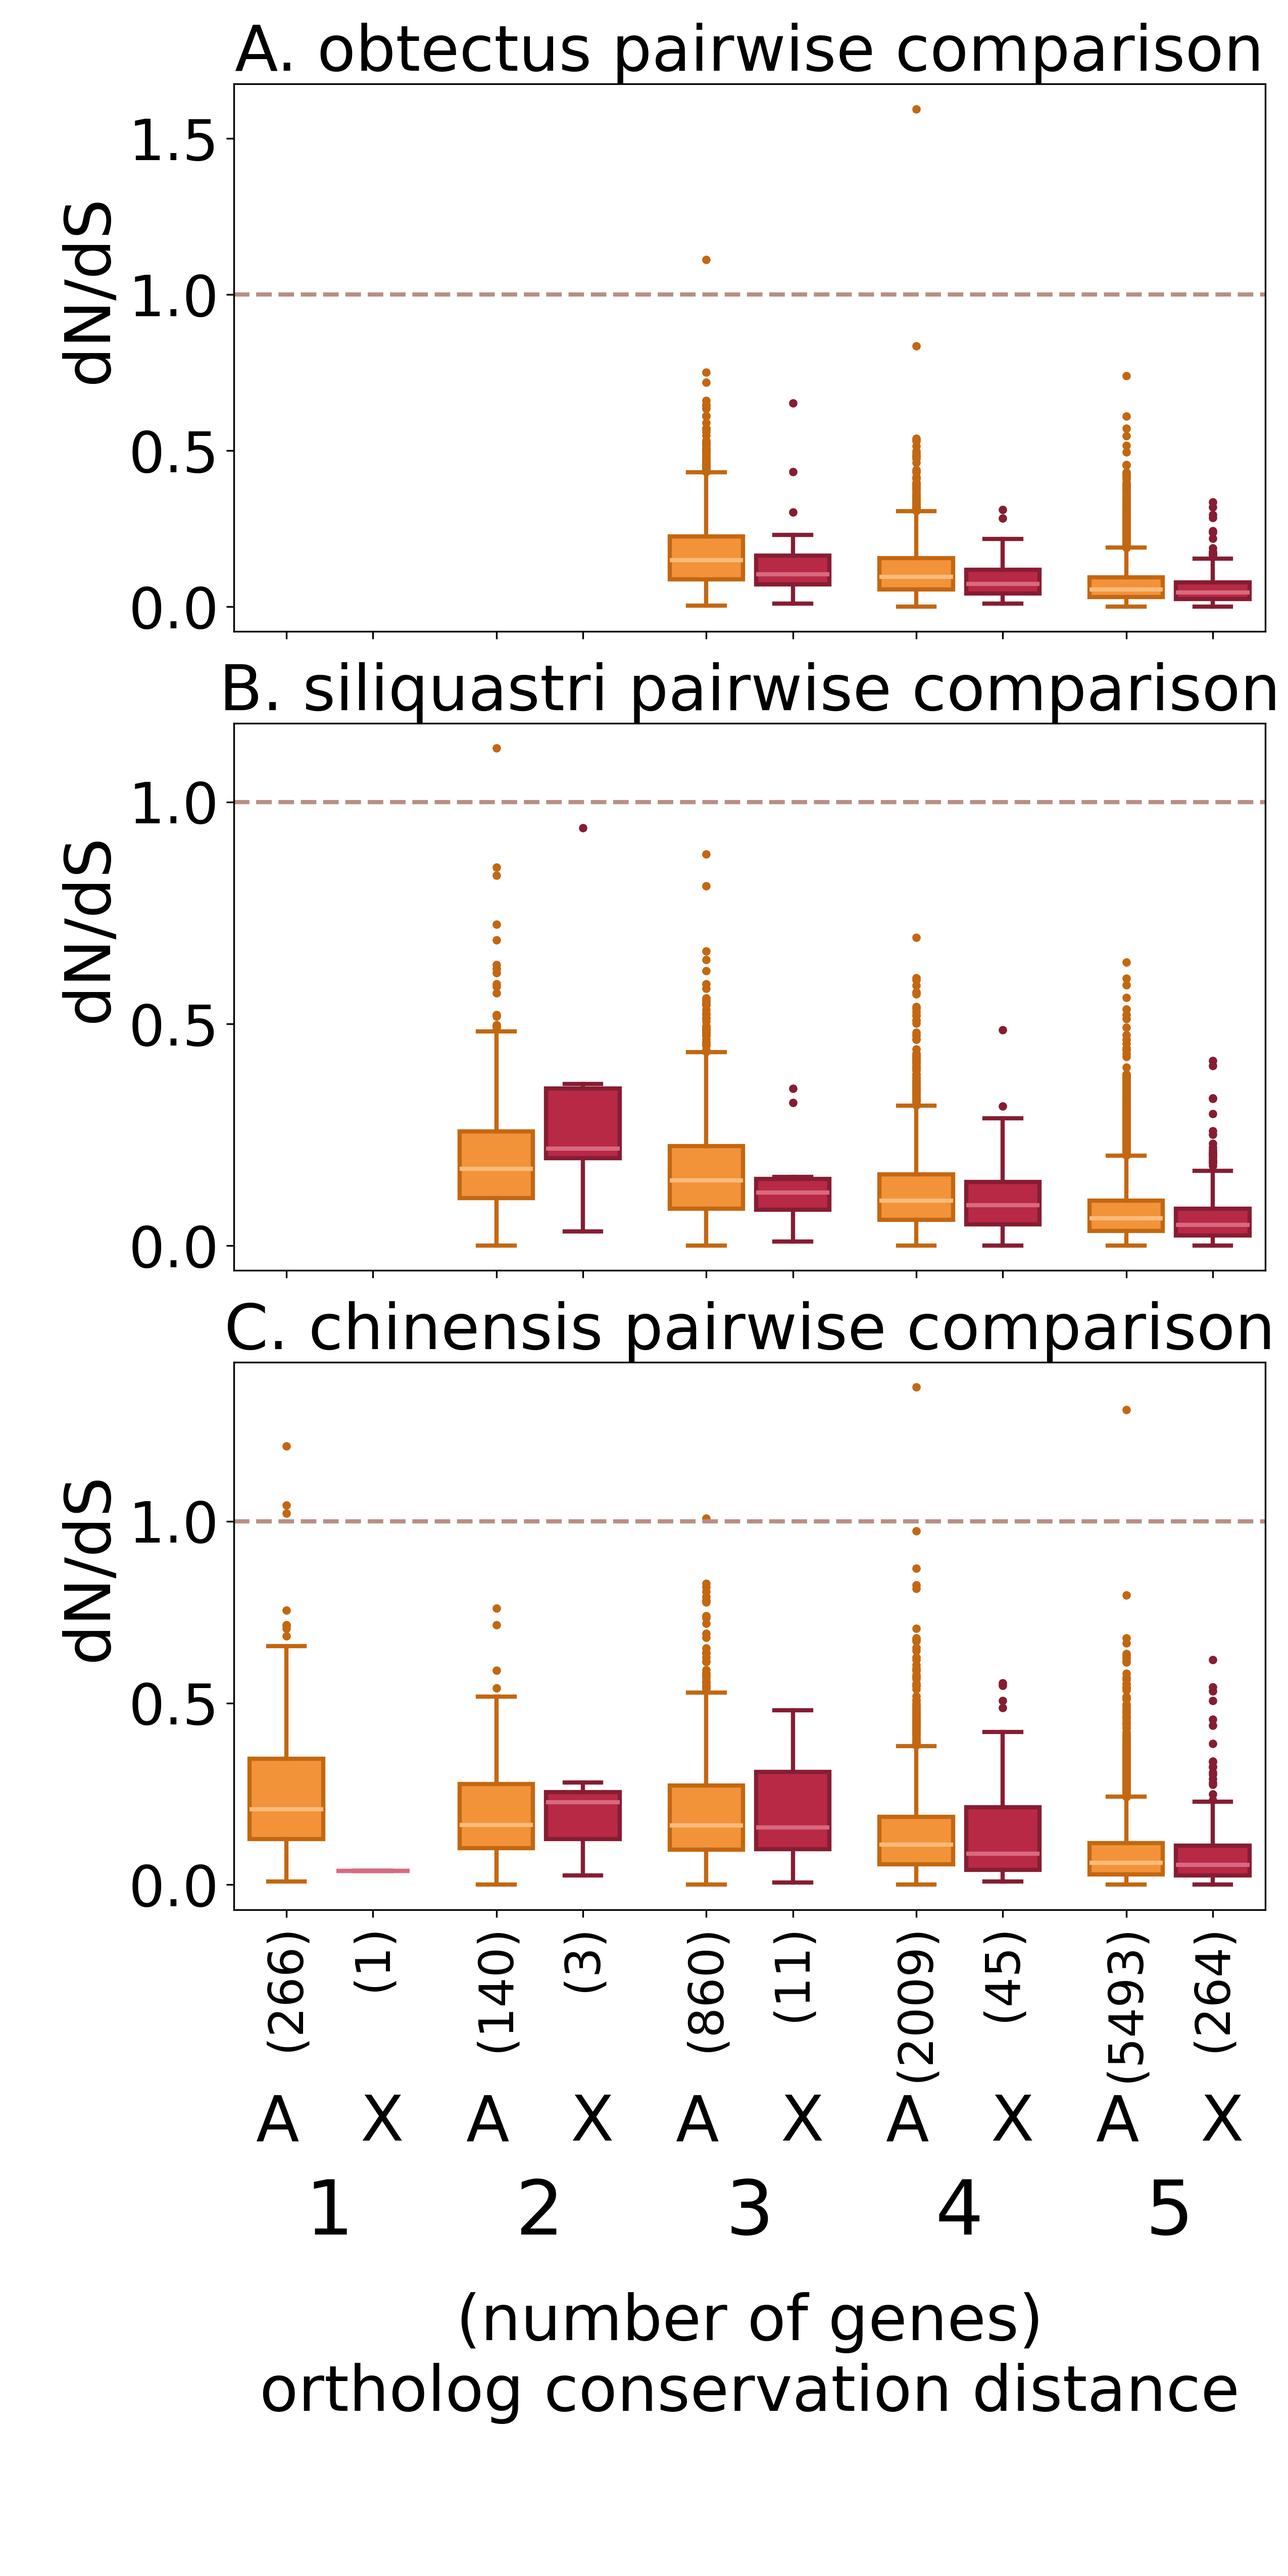
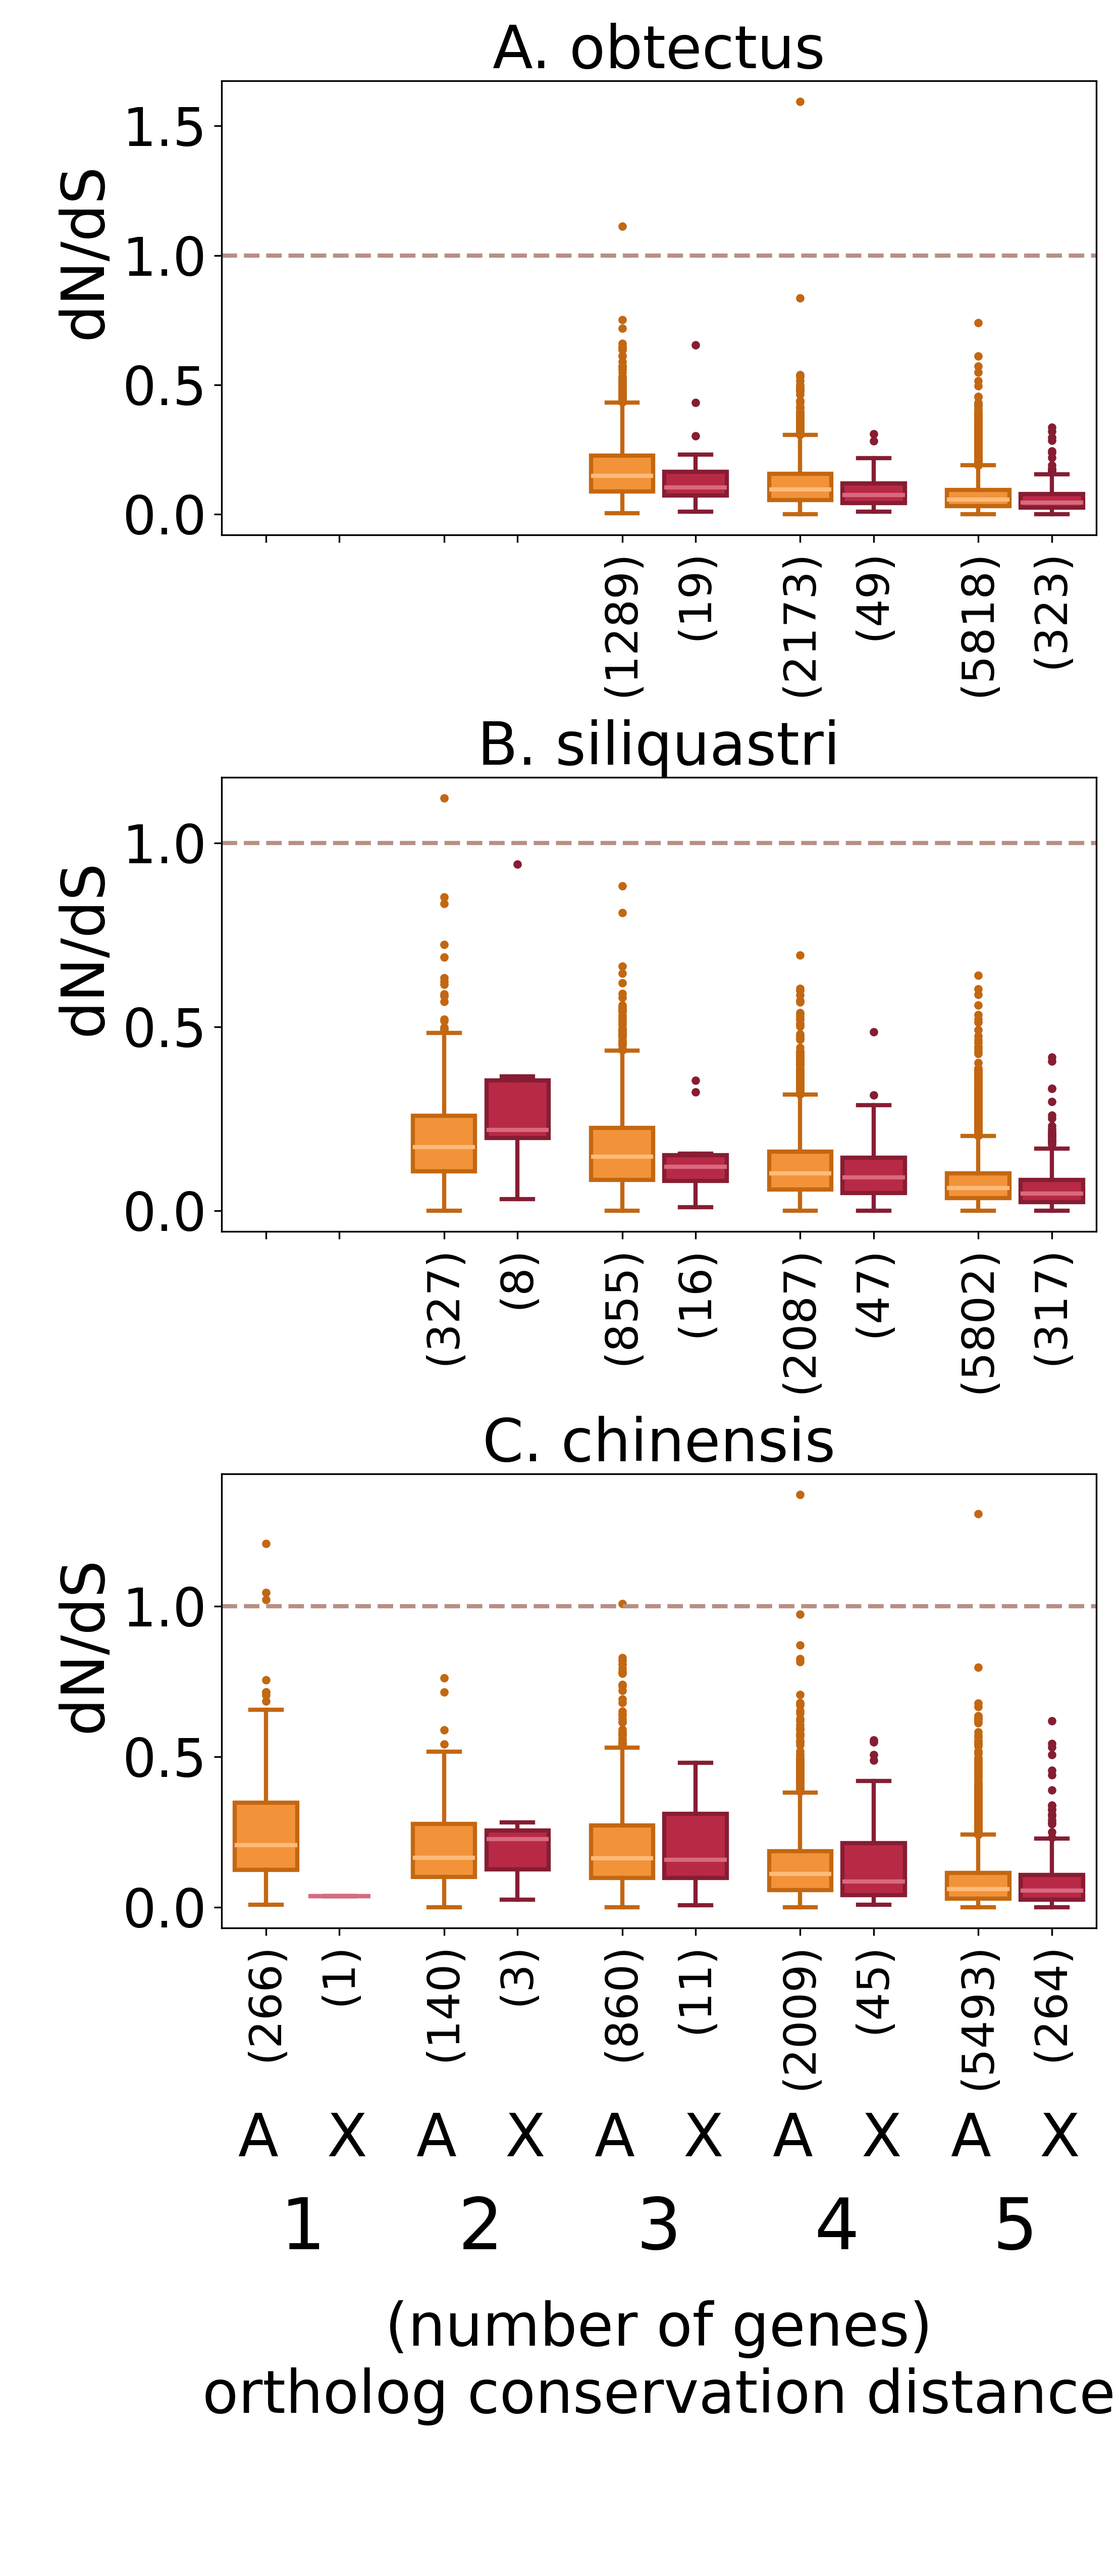
add sample sizes to dNdS x age rank plot

diff --git a/src/plotting/analyze_dNdS_LFC.py b/src/plotting/analyze_dNdS_LFC.py
@@ -258,7 +258,7 @@ def statistical_analysis_pos_sel(full_table_paths_dict, include_sex_bias=False):
                 test = smf.logit(formula=formula_nono, data=filt_df).fit()
                 print(test.summary())
 
-                
+
             elif include_sex_bias == False:
                 
                 ########### test interaction
@@ -354,10 +354,10 @@ def plot_dNdS_rank_conserved(summary_paths_AX_list:dict, outfile = "", maxdNdS =
     if maxdNdS>0:
         y_label = f"dN/dS (max. < {maxdNdS})"
     
-    fs = 30 # font size
+    fs = 28 # font size
 
     # set figure aspect ratio
-    aspect_ratio = 8 / 16
+    aspect_ratio = 10 / 23
     height_pixels = 1700  # Height in pixels
     width_pixels = int(height_pixels * aspect_ratio)  # Width in pixels
 
@@ -371,7 +371,7 @@ def plot_dNdS_rank_conserved(summary_paths_AX_list:dict, outfile = "", maxdNdS =
             AX_lists.extend([lists_A[rank], lists_X[rank]])
         
         # tick_labels = [f"{i // 2 + 1}\n({len(vals)})" for i,vals in enumerate(sex_biased_lists)]
-        tick_labels = [f"({len(vals)})" for i,vals in enumerate(AX_lists)] # plot conservation rank label on separate axis
+        tick_labels = [f"({len(vals)})" if len(vals)>0 else "" for i,vals in enumerate(AX_lists) ] # plot conservation rank label on separate axis
         width = 0.7
         pos_adjust=width*0.125
         tick_pos = [i+pos_adjust if i%2==1 else i-pos_adjust for i in range(1,len(tick_labels)+1)]
@@ -384,7 +384,9 @@ def plot_dNdS_rank_conserved(summary_paths_AX_list:dict, outfile = "", maxdNdS =
             ax[row].set_xticks(ticks = tick_pos, labels = tick_labels, fontsize=fs*tick_fs_factor)#, rotation=45, ha='right') # rotation=45 for diagonal direction
             ax[row].tick_params(axis='x', labelsize=fs*tick_fs_factor, rotation = 90)
         else:
-            ax[row].set_xticks(ticks = tick_pos, labels = ['' for tick in tick_labels], fontsize=fs*tick_fs_factor, rotation=45, ha='right')
+            ax[row].set_xticks(ticks = tick_pos, labels = tick_labels, fontsize=fs*tick_fs_factor)#, rotation=45, ha='right') # rotation=45 for diagonal direction
+            ax[row].tick_params(axis='x', labelsize=fs*tick_fs_factor, rotation = 90)
+            # ax[row].set_xticks(ticks = tick_pos, labels = ['' for tick in tick_labels], fontsize=fs*tick_fs_factor, rotation=45, ha='right')
         ax[row].tick_params(axis='y', labelsize=fs*0.9)
         ax[row].set_title(title, fontsize=fs)
         ax[row].set_ylabel(ylab, fontsize = fs, x=0.0, y=0.625)
@@ -436,16 +438,6 @@ def plot_dNdS_rank_conserved(summary_paths_AX_list:dict, outfile = "", maxdNdS =
             else:
                 flier.set(marker='.', markerfacecolor=colors_dict['X_edge'], markeredgecolor=colors_dict['X_edge'])
 
-    # colors = {
-    #     "fill" : "#246A73", # stormy teal
-    #     "edge" : "#174C54", # dark teal
-    #     "medians" : "#54A6A2", # tropical teal
-    #     # "lines" : "#7D93B5", # lavender grey
-    #     "X_fill" : "#7E3A7E", # grape soda
-    #     "X_edge" : "#672B67", # velvet purple
-    #     "X_medians" : "#C877C8", # orchid mist
-    #     # "X_lines" : "#7D93B5" # lavender grey
-    # }
     colors = {
         "fill" : "#F2933A", # uniform_filtered orange
         "edge" : "#C36711", # darker orange
@@ -459,7 +451,7 @@ def plot_dNdS_rank_conserved(summary_paths_AX_list:dict, outfile = "", maxdNdS =
     for i,partner in enumerate(sorted(partner_species)):
         print(f"/////////////////////// {partner} ///////////////////////")
         partner_title=partner.replace("_", ". ")
-        plot_title = f"{partner_title} pairwise comparison"
+        plot_title = f"{partner_title}"
         if i<2:
             plot_x_axis=False
         else:
@@ -1228,7 +1220,7 @@ if __name__ == "__main__":
 
     ###### site model (pos. sel) stats and some plotting
     ## if plotting not here then in PhD_chapter3/src/plotting/analyze_site_classes.py
-    if True:
+    if False:
         ###################################################
         ## analyze positive selection in site classes
         ## logistic regression for categorical response (positive selection True/False)
@@ -1247,7 +1239,7 @@ if __name__ == "__main__":
         run_fisher_test(fisher_counts_dict, verbose=True)
         ###################################################
 
-    if False:
+    if True:
         ###################################################
         ## boxplot dNdS by rank and chromosome but no sex bias
         filename=f"/Users/{username}/work/PhD_code/PhD_chapter3/data/DE_analysis/dNdS_vs_conservation_rank.png"
